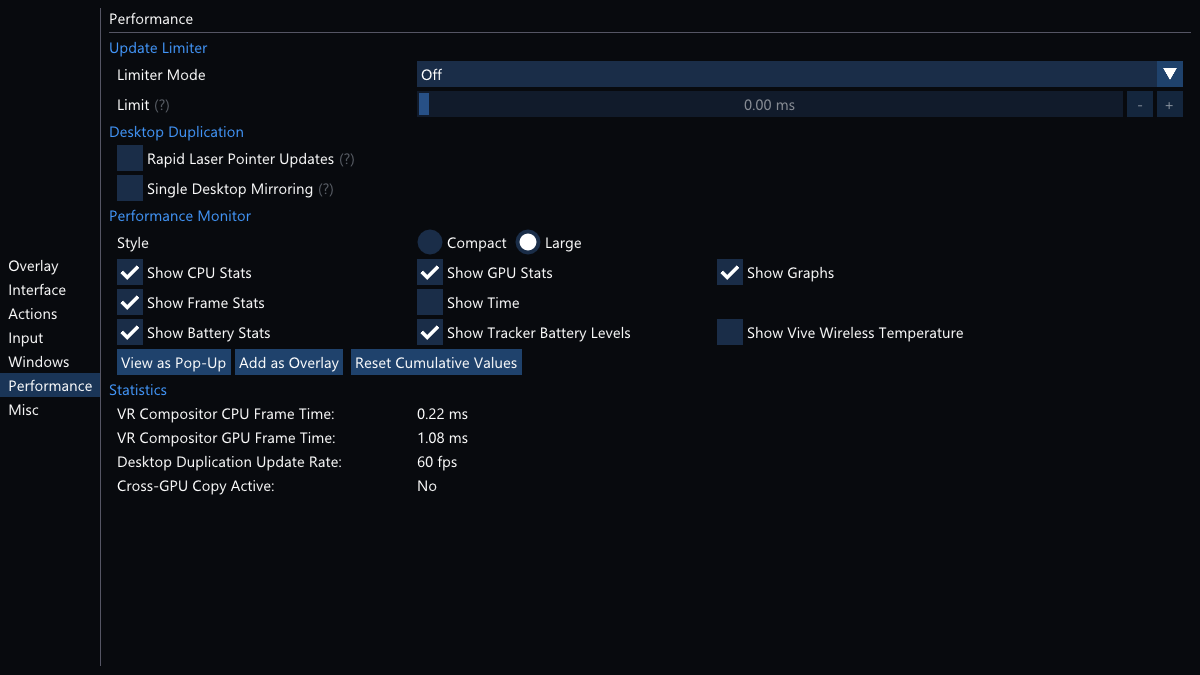
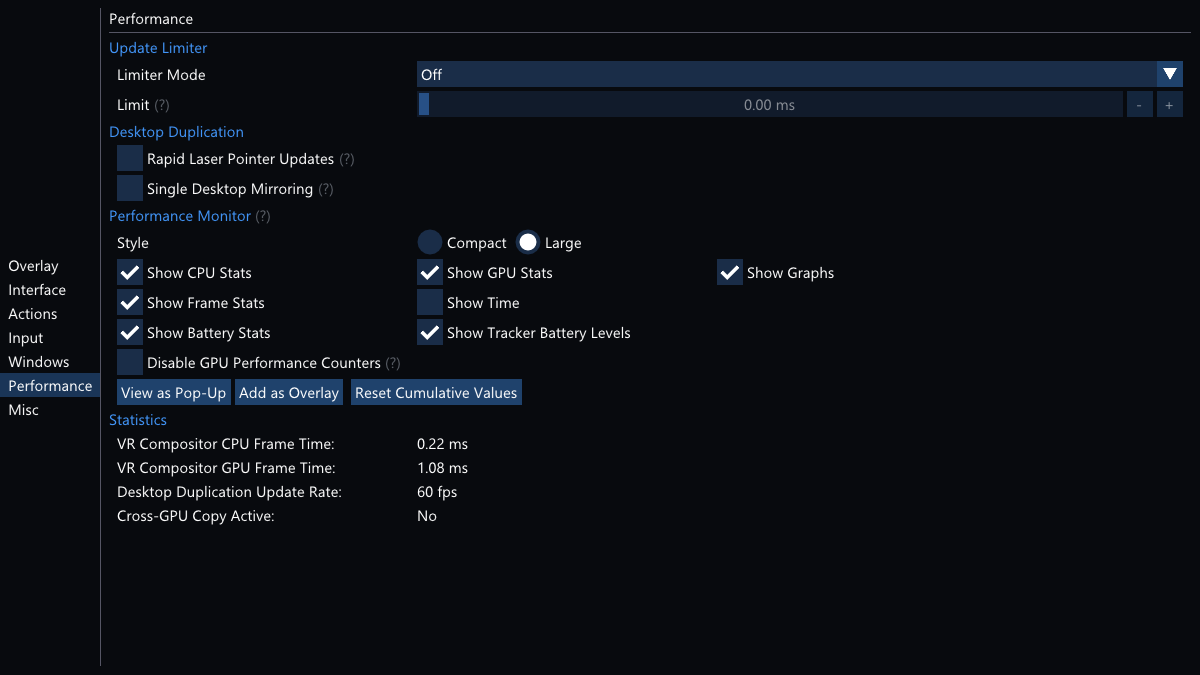
UI & Graphics Capture fixes
- Fix Graphics Capture thread error when switching to desktop from lost capture
- Fix blank section in performance graphs when SteamVR runs out of history
- Fix wrong overlay icon for initial -2 desktop ID
- Fix "Use Active Window" not working on new windows
- Fix "Use Active Window" not setting the auto-name correctly
- Update documentation
- Bump version to 2.5

Changed region(s): [[0.0925, 0.4978, 0.4625, 0.7778], [0.5858, 0.4667, 0.8017, 0.5289]]

diff --git a/src/DesktopPlusUI/WindowSettings.cpp b/src/DesktopPlusUI/WindowSettings.cpp
@@ -1126,8 +1126,8 @@ void WindowSettings::UpdateCatOverlayTabCapture()
                         OverlayManager::Get().SetCurrentOverlayNameAuto();
                         m_OverlayNameBufferNeedsUpdate = true;
 
-                        IPCManager::Get().PostMessageToDashboardApp(ipcmsg_set_config, ConfigManager::GetWParamForConfigID(configid_int_overlay_winrt_desktop_id), winrt_selected_desktop);
                         IPCManager::Get().PostMessageToDashboardApp(ipcmsg_set_config, ConfigManager::GetWParamForConfigID(configid_intptr_overlay_state_winrt_hwnd), 0);
+                        IPCManager::Get().PostMessageToDashboardApp(ipcmsg_set_config, ConfigManager::GetWParamForConfigID(configid_int_overlay_winrt_desktop_id), winrt_selected_desktop);
 
                         UIManager::Get()->RepeatFrame();
                     }
@@ -1164,8 +1164,8 @@ void WindowSettings::UpdateCatOverlayTabCapture()
                         OverlayManager::Get().SetCurrentOverlayNameAuto();
                         m_OverlayNameBufferNeedsUpdate = true;
 
-                        IPCManager::Get().PostMessageToDashboardApp(ipcmsg_set_config, ConfigManager::GetWParamForConfigID(configid_int_overlay_winrt_desktop_id), winrt_selected_desktop);
                         IPCManager::Get().PostMessageToDashboardApp(ipcmsg_set_config, ConfigManager::GetWParamForConfigID(configid_intptr_overlay_state_winrt_hwnd), 0);
+                        IPCManager::Get().PostMessageToDashboardApp(ipcmsg_set_config, ConfigManager::GetWParamForConfigID(configid_int_overlay_winrt_desktop_id), winrt_selected_desktop);
 
                         UIManager::Get()->RepeatFrame();
                     }
@@ -1275,6 +1275,7 @@ void WindowSettings::UpdateCatOverlayTabCapture()
             if (ImGui::Button("Use Active Window"))
             {
                 //Try to find the foreground window in the window list and only use it when found there
+                UpdateWindowList(capture_window_list_selected_window, capture_list_selected_str);
                 HWND foreground_window = ::GetForegroundWindow();
                 const auto it = std::find_if(m_CaptureWindowList.begin(), m_CaptureWindowList.end(), [&](const auto& window){ return (window.WindowHandle == foreground_window); });
 
@@ -1282,10 +1283,12 @@ void WindowSettings::UpdateCatOverlayTabCapture()
                 {
                     winrt_selected_desktop = -2;
                     winrt_selected_window = foreground_window;
-                    capture_list_selected_str  = it->ListTitle;
+                    capture_list_selected_str = it->ListTitle;
                     capture_window_list_selected_window = winrt_selected_window;
 
                     ConfigManager::Get().SetConfigIntPtr(configid_intptr_overlay_state_winrt_hwnd, (intptr_t)winrt_selected_window);
+                    ConfigManager::Get().SetConfigString(configid_str_overlay_winrt_last_window_title,    StringConvertFromUTF16(it->Title.c_str())); //No need to sync these
+                    ConfigManager::Get().SetConfigString(configid_str_overlay_winrt_last_window_exe_name, it->ExeName);
 
                     OverlayManager::Get().SetCurrentOverlayNameAuto();
                     m_OverlayNameBufferNeedsUpdate = true;
@@ -2966,7 +2969,7 @@ void WindowSettings::UpdateCatMisc()
         ImGui::Columns(2, "ColumnVersionInfo", false);
         ImGui::SetColumnWidth(0, column_width_0 * 2.0f);
 
-        ImGui::Text("Desktop+ Version 2.4.6 Beta");
+        ImGui::Text("Desktop+ Version 2.5");
 
         ImGui::Columns(1);
     }
@@ -5713,16 +5716,18 @@ int WindowSettings::GetOverlayIcon(unsigned int overlay_id, TMNGRTexID& texture_
             }
         }
 
-        if (desktop_id != -2)
+        if (desktop_id == -2)
         {
-            if (desktop_id != -1)
-            {
-                texture_id = (tmtex_icon_desktop_1 + desktop_id <= tmtex_icon_desktop_6) ? (TMNGRTexID)(tmtex_icon_xsmall_desktop_1 + desktop_id) : tmtex_icon_xsmall_desktop;
-            }
-            else
-            {
-                texture_id = tmtex_icon_desktop_all;
-            }
+            desktop_id = 0;
+        }
+
+        if (desktop_id != -1)
+        {
+            texture_id = (tmtex_icon_desktop_1 + desktop_id <= tmtex_icon_desktop_6) ? (TMNGRTexID)(tmtex_icon_xsmall_desktop_1 + desktop_id) : tmtex_icon_xsmall_desktop;
+        }
+        else
+        {
+            texture_id = tmtex_icon_desktop_all;
         }
     }
 

diff --git a/src/DesktopPlusUI/WindowPerformance.cpp b/src/DesktopPlusUI/WindowPerformance.cpp
@@ -924,10 +924,11 @@ void WindowPerformance::UpdateStatValuesSteamVR()
         for (uint32_t frames_ago = std::min(frame_timing_current.m_nFrameIndex - m_FrameTimeLastIndex, (uint32_t)m_FrameTimeCPUHistory.MaxSize); frames_ago != 0; --frames_ago)
         {
             frame_timing_prev_valid = vr::VRCompositor()->GetFrameTiming(&frame_timing_prev, frames_ago);
+            //Calculate our own frame index as we get duplicates if SteamVR runs out of history
+            float frame_index = float(frame_timing_current.m_nFrameIndex - frames_ago);
 
             if (frame_timing_prev_valid)
             {
-                float frame_index    = (float)frame_timing_prev.m_nFrameIndex;
                 float frame_time_cpu = frame_timing_prev.m_flClientFrameIntervalMs + frame_timing_prev.m_flCompositorRenderCpuMs;
 
                 m_FrameTimeCPUHistory.AddFrame(frame_index, frame_time_cpu);
@@ -938,8 +939,6 @@ void WindowPerformance::UpdateStatValuesSteamVR()
             }
             else //No valid data, leave gap in history
             {
-                float frame_index = float(frame_timing_current.m_nFrameIndex - frames_ago);
-
                 m_FrameTimeCPUHistory.AddFrame(frame_index, 0.0f);
                 m_FrameTimeCPUHistoryWarning.AddFrame(frame_index, 0.0f);
 

diff --git a/src/DesktopPlusUI/WindowMainBar.cpp b/src/DesktopPlusUI/WindowMainBar.cpp
@@ -192,7 +192,6 @@ void WindowMainBar::UpdateDesktopButtons(unsigned int overlay_id)
         current_desktop = current_desktop_new;
 
         IPCManager::Get().PostMessageToDashboardApp(ipcmsg_set_config, ConfigManager::Get().GetWParamForConfigID(configid_int_state_overlay_current_id_override), (int)overlay_id);
-        IPCManager::Get().PostMessageToDashboardApp(ipcmsg_set_config, ConfigManager::GetWParamForConfigID(current_configid), current_desktop);
 
         //Reset window selection when switching to a desktop
         if (current_configid == configid_int_overlay_winrt_desktop_id)
@@ -200,6 +199,8 @@ void WindowMainBar::UpdateDesktopButtons(unsigned int overlay_id)
             IPCManager::Get().PostMessageToDashboardApp(ipcmsg_set_config, ConfigManager::GetWParamForConfigID(configid_intptr_overlay_state_winrt_hwnd), 0);
             overlay_config.ConfigIntPtr[configid_intptr_overlay_state_winrt_hwnd] = 0;
         }
+
+        IPCManager::Get().PostMessageToDashboardApp(ipcmsg_set_config, ConfigManager::GetWParamForConfigID(current_configid), current_desktop);
 
         IPCManager::Get().PostMessageToDashboardApp(ipcmsg_set_config, ConfigManager::Get().GetWParamForConfigID(configid_int_state_overlay_current_id_override), -1);
 

diff --git a/docs/user_guide.md b/docs/user_guide.md
@@ -46,9 +46,12 @@ Configures the state of the current overlay. Changes made here do not apply to o
 
 - **Current Overlay**
   - **(Drop-down List)**:  
-  Use the drop-down list to select which overlay's settings to show. The drop-down list can be right-clicked to rename the current overlay. Hovering a selection highlights the overlay in the VR space to help you identify it.
+  Use the drop-down list to select which overlay's settings to show. The drop-down list can be right-clicked to rename the current overlay. Hovering a selection highlights the overlay in the VR space to help you identify it.  
+  Overlay names are generated automatically based on the overlay's capture settings unless they were renamed manually. To restore the automatic overlay name, leave the input field blank when renaming.
+  - **[+]**:  
+  Click to quickly add another overlay.
   - **[Manage]**:  
-  Click to open the overlay management pop-up. Overlays can be added, removed, sorted or set as current from there. Added overlays copy the settings from the current overlay and are positioned next to it if possible. You can also click on the overlays in the VR space to select them while the pop-up is open.
+  Click to open the overlay management pop-up. Overlays can be added, renamed, removed, sorted or set as current from there. Added overlays copy the settings from the current overlay and are positioned next to it if possible. You can also click on the overlays in the VR space to select them while the pop-up is open.
 
 ##### General
 
@@ -142,6 +145,8 @@ Gaze Fade gradually fades the overlay to 0% opacity when not looking at it. When
   Distance of the gaze point from the HMD. Put the slider to the leftmost value to set it to "Infinite".
   - **Fade Rate**:  
   Rate at which the fading occurs. As Gaze Fade only takes the center point of the overlay in account, adjusting this value depending on the overlay size is recommended.
+  - **[Set from Gaze]**:  
+  Configure Gaze Distance and Fade Rate values automatically from the current gaze and overlay settings. After clicking, a pop-up will appear asking to look at the overlay for 3 seconds.
 
 - **Update Limiter Override**
   - **Limiter Mode**:  
@@ -155,6 +160,12 @@ Gaze Fade gradually fades the overlay to 0% opacity when not looking at it. When
   - **Overlay Group**:  
   Sets the group the overlay belongs to. Overlay groups are used to target overlays in actions and input bindings.  
   This is currently only used to change the enablement state of multiple overlays at once.
+    
+- **Performance**
+  - **Update when Invisible**:  
+  Updates the overlay even when invisible from Opacity setting or Gaze Fade.  
+  This helps with third-party applications accessing the overlay's contents but is not recommended otherwise. Updates are still suspended if the overlay is disabled or hidden by Display Mode setting.  
+  Allowing overlays to update when not needed can have a significant performance impact.
   
 ##### Interface
 
@@ -189,6 +200,13 @@ Gaze Fade gradually fades the overlay to 0% opacity when not looking at it. When
 - **Action Buttons**
   - **(Action Button List)**:  
   Global order and visibility of action buttons on the Action Bar can be customized here. This list can be expanded by creating custom actions.
+  
+- **Interface**
+  - **Background Color**:  
+  Allows to partially or fully cover the VR scene either only while looking at the Desktop+ dashboard tab or at all times.  
+  Click on the color button to open the color picker pop-up and click on the drop-down list to choose when the background color appears.
+  - **Dim Interface**:  
+  Dims the SteamVR dashboard and Desktop+ UI while the Desktop+ dashboard tab is open.
 
 #### Actions
 
@@ -242,6 +260,9 @@ Custom icons for these actions can be added by putting PNG files in the "images/
 - **Floating Overlay**
   - **Interaction Auto-Toggle Max Distance**:  
   Maximum allowed distance between overlay and pointing controller to automatically toggle interaction mode while the dashboard is closed. Set this to "Off" when using the global controller binding toggle.
+  - **Global HMD-Pointer**:  
+  Enables using HMD gaze to point at Desktop+ overlays while the dashboard is closed. The Interaction Auto-Toggle Max Distance value is used here as well to limit the maximum pointing distance.  
+  This option only allows to move the mouse cursor with the HMD gaze, no other inputs. It is mainly useful to change focus, get the cursor to window overlays and then use the physical mouse to continue the interaction.
   
 #### Windows
 
@@ -284,13 +305,15 @@ These settings allow tweaking the performance characteristics of Desktop+. Howev
   Mirrors individual desktops instead of cropping from the combined desktop. All Desktop Duplication overlays will be showing the same desktop when this is active.
   There can be a noticeable performance impact when multiple desktops update constantly. This setting can be used to mitigate it.
   
-- **Peformance Monitor**  
+- **Performance Monitor**  
 The Performance Monitor lets you quickly check the current state of your system from within VR in real time. Once added as an overlay, it can be customized and positioned like any of the desktop/window ones.  
 While it's possible to create as many overlays of it as desired, they will all be showing the same content. Performance Monitor settings are global.
   - **Style**:  
   Switches between a large and compact style of the Performance Monitor. The compact style does not allow displaying frame time graphs and the current time.
   - **Show (Item)**:  
   Allows to customize which performance characteristics and states are displayed on the Performance Monitor.
+  - **Disable GPU Performance Counters**:  
+  Disables display of GPU load % and VRAM usage. This prevents GPU hardware monitoring related stutter with recent NVIDIA drivers.
   - **[View as Pop-Up]**:  
   Displays the Performance Monitor as a pop-up. This usually only serves as a preview since the VR scene applications will pause and reduce rendering load while the dashboard is open.
   - **[Add as Overlay]**:  
